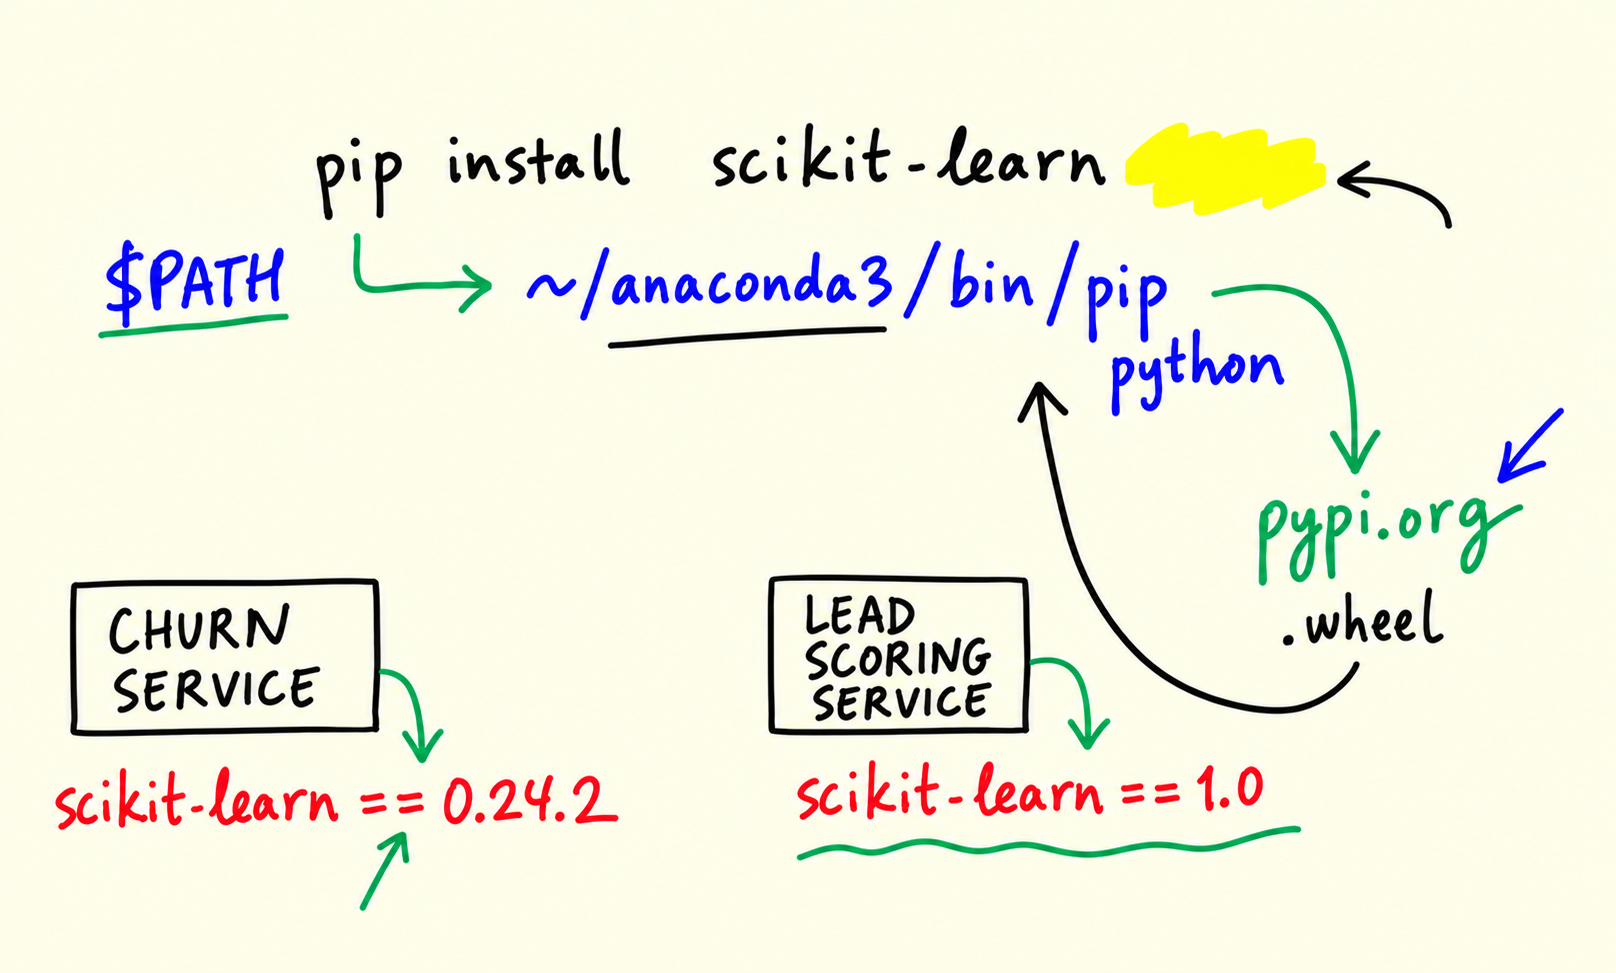
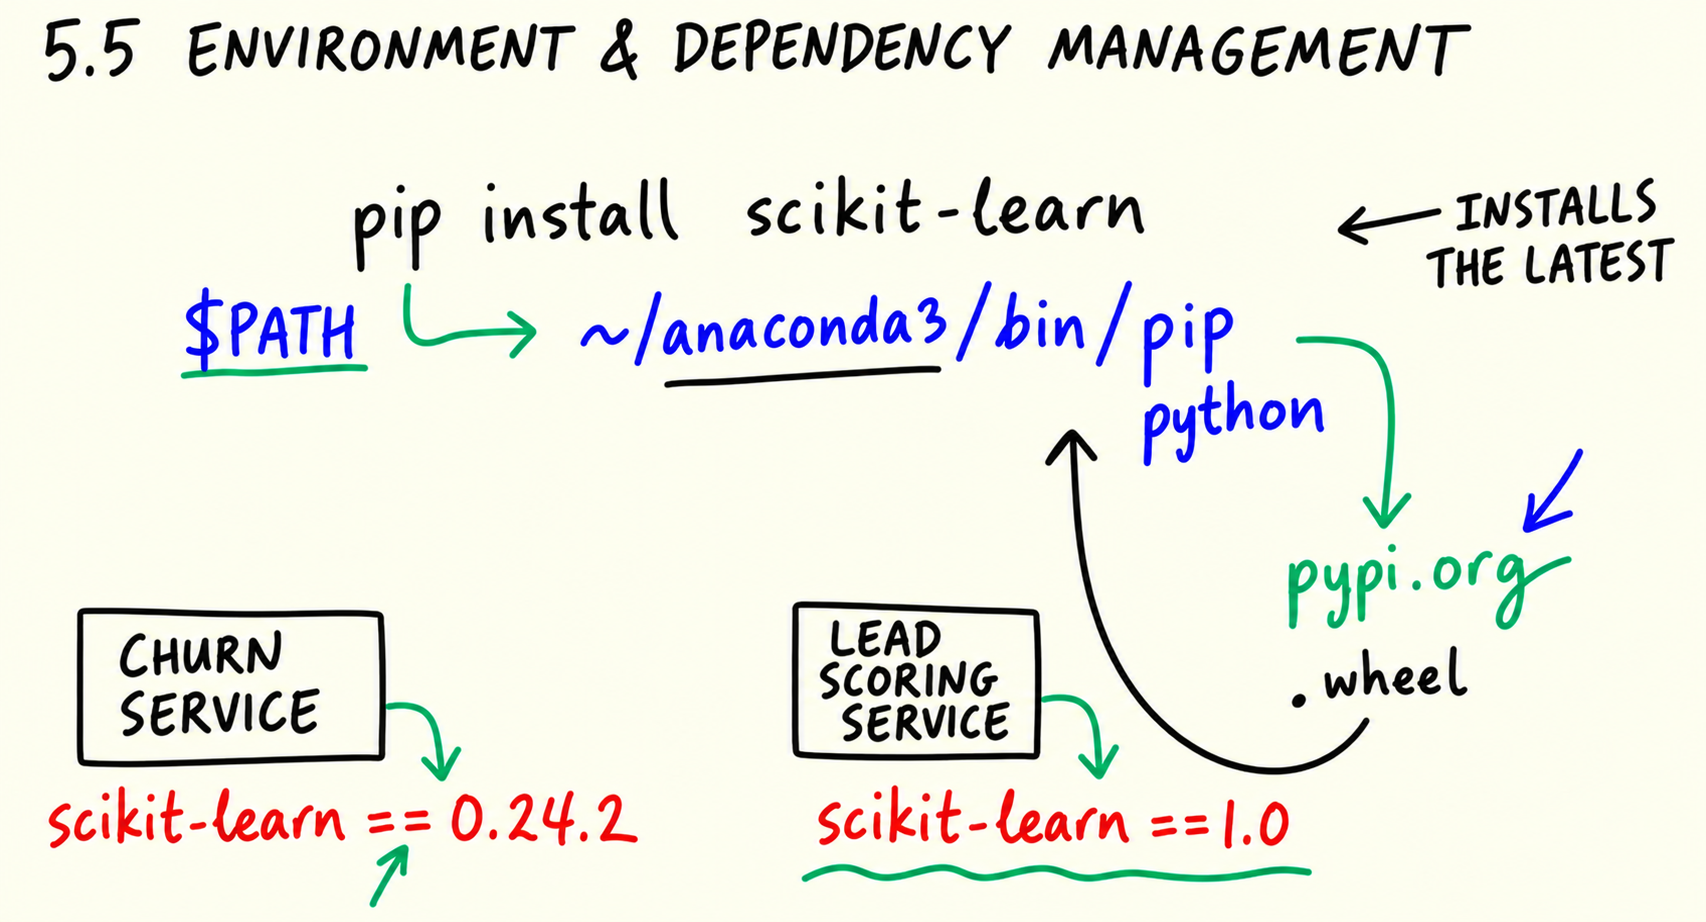
Repair Pipenv version conflict illustration

diff --git a/cohorts/2026/05-deployment/images/2026-09-09-imagegen-repair-provenance.md b/cohorts/2026/05-deployment/images/2026-09-09-imagegen-repair-provenance.md
@@ -1,0 +1,39 @@
+# Imagegen repair provenance — deployment
+
+## `05-pipenv-02-version-conflict-imagegen.png`
+
+- Lesson reference: `cohorts/2026/05-deployment/05-pipenv.md:21`
+- Repair reason: the previous redraw contained an unlabeled yellow mark and omitted the source annotation `INSTALLS THE LATEST`.
+- Original source JPG: `05-pipenv-02-version-conflict.jpg`
+- Source dimensions: `598x360`
[1 lines of base64/hex data omitted]
+- Retained bounded crop: `05-pipenv-02-version-conflict-imagegen-crop.jpg`
+- Crop coordinates: `555x300+23+0` (`x=23`, `y=0`, `width=555`, `height=300`)
[1 lines of base64/hex data omitted]
+- Imagegen output: `05-pipenv-02-version-conflict-imagegen.png`
+- Output dimensions: `1706x922`
[1 lines of base64/hex data omitted]
+- C2PA metadata: present; URN `urn:c2pa:8cfcb601-1235-4936-bfed-e98bb58fbe30`
+- Generation method: built-in imagegen with the original JPG and the retained bounded crop supplied as references. This is a redraw, not an upscale or sharpened crop.
+- Resize-only comparison: normalized RMSE `0.349921` against the bounded crop resized to `1706x922`, confirming that the output is materially regenerated rather than a resize-only copy.
+
+### Preserved invariants
+
+- The shared system-Python dependency conflict remains explicit: `CHURN SERVICE` uses `scikit-learn == 0.24.2`, while `LEAD SCORING SERVICE` uses `scikit-learn == 1.0`.
+- The shared installation path and package flow remain visible: `$PATH`, `~/anaconda3/bin/pip`, `python`, `pypi.org`, and `.wheel`.
+- The source annotation `INSTALLS THE LATEST` is restored verbatim.
+- The title `5.5 ENVIRONMENT & DEPENDENCY MANAGEMENT` is retained.
+
+### Removed artifacts
+
+- Presenter face/camera inset
+- Screen-recording cursor and controls
+- Black frame borders and lower-right gauge
+- Unexplained yellow scribble/mark
+
+### Verification
+
+- Native output inspected at `1706x922`.
+- Lesson-width render inspected at `608x329`.
+- Required labels and version values were checked in both views.
+- No face, camera inset, browser/recording chrome, cursor, watermark, or unlabeled yellow mark remains.
